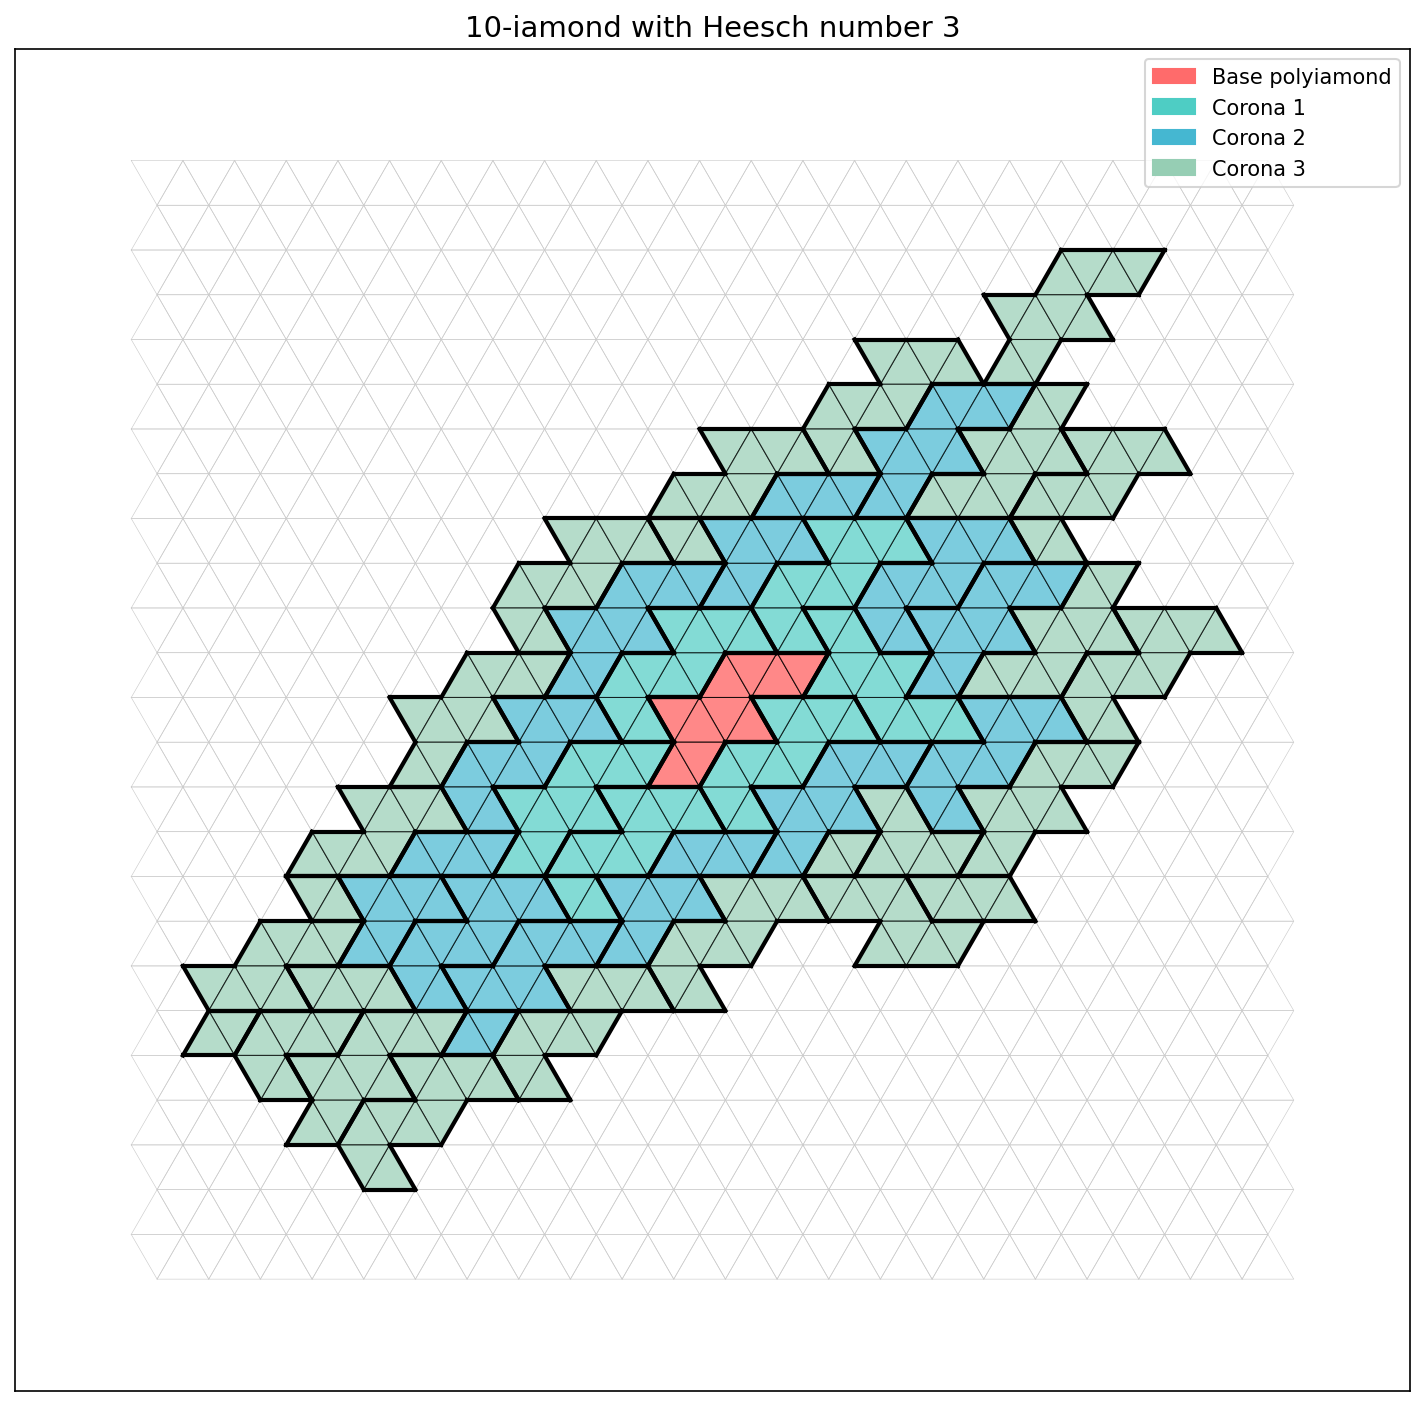
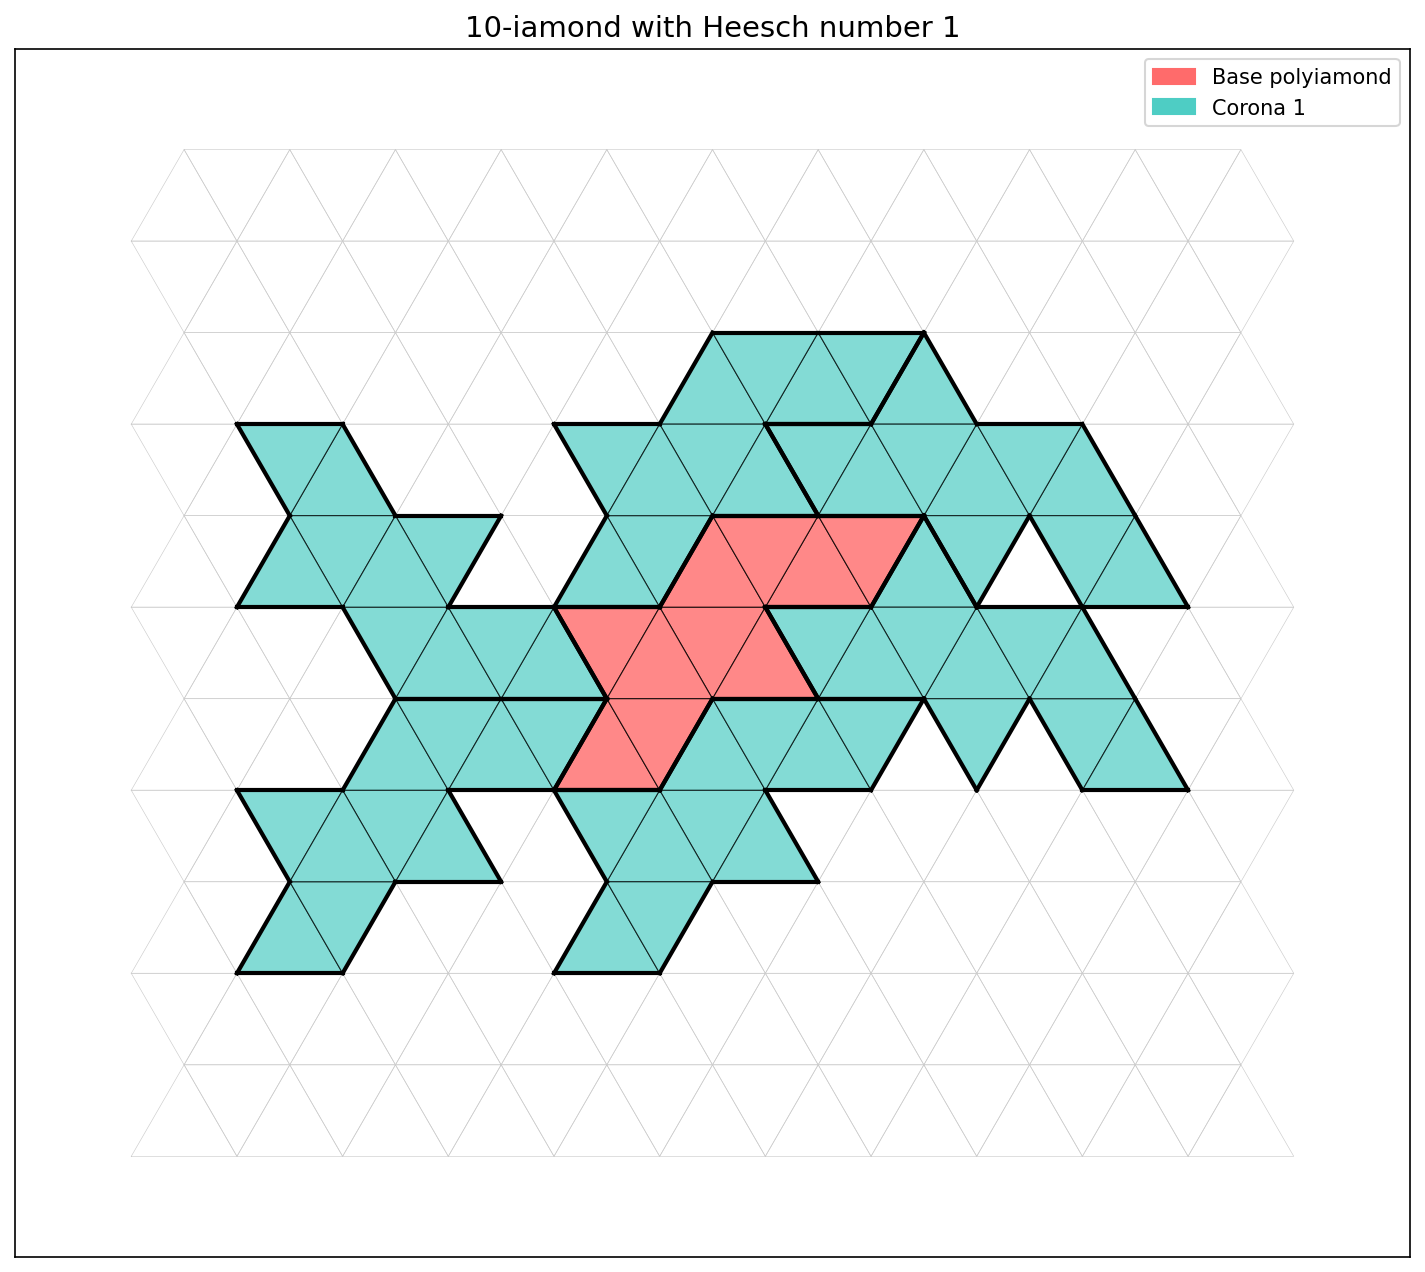
Fix critical bug: translation parity must be preserved in triangular grid
The find_valid_placements function was generating invalid placements by
allowing translations with odd (dx + dy). In the triangular grid coordinate
system:
- is_up when (x + y) % 2 == 0
- is_down when (x + y) % 2 == 1

When translating by (dx, dy) where (dx + dy) is odd, all triangles flip
orientation (up↔down). This breaks connectivity because:
- Up triangles have vertical neighbor at (x, y-1)
- Down triangles have vertical neighbor at (x, y+1)

After an odd translation, cells that were edge-adjacent neighbors become
non-adjacent, breaking the polyiamond's structure.

The fix: skip translations where (dx + dy) % 2 != 0.

This matches the approach in Kaplan's paper which uses a coordinate system
where valid translations must preserve the grid structure.

NOTE: The previous Heesch number results (Hc=3) were inflated due to this
bug allowing invalid "broken" placements. The corrected results show Hc=1
for these shapes. The PNG files are updated to show correct visualizations.

diff --git a/polyiamond/corona_sat.py b/polyiamond/corona_sat.py
@@ -72,6 +72,12 @@ def find_valid_placements(
                 dx = boundary_cell.x - base_cell.x
                 dy = boundary_cell.y - base_cell.y
 
+                # CRITICAL: Only allow translations that preserve triangle orientation
+                # If (dx + dy) is odd, triangles flip orientation and connectivity breaks
+                # This happens when boundary_cell and base_cell have different parities
+                if (dx + dy) % 2 != 0:
+                    continue
+
                 # Apply translation to get placed cells
                 placed_cells = frozenset(
                     Cell(c.x + dx, c.y + dy) for c in base_cells
